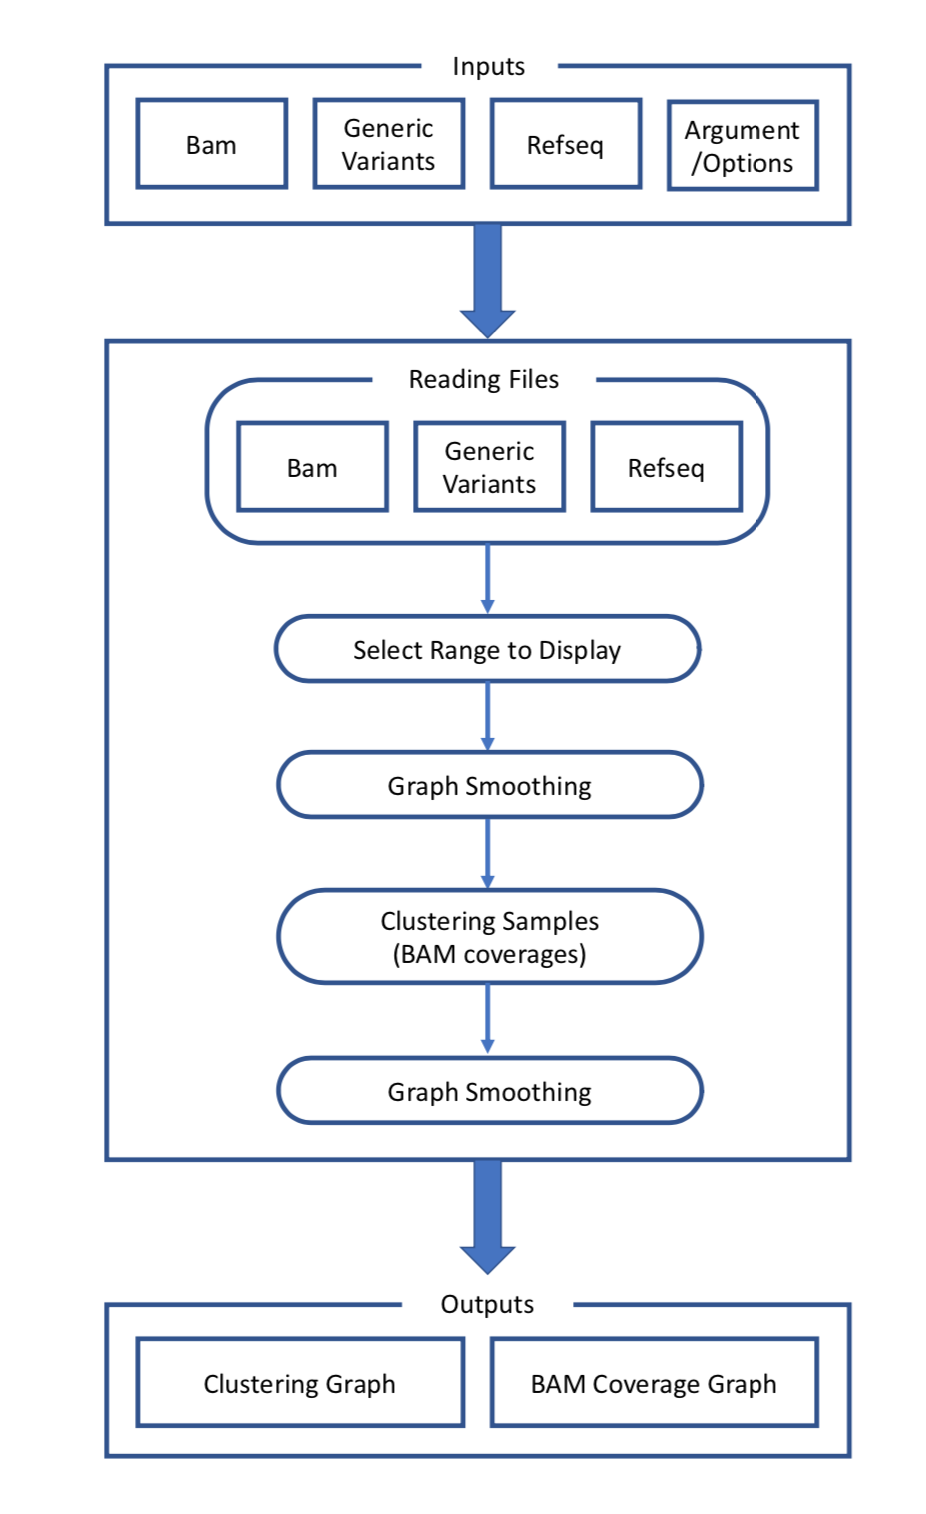
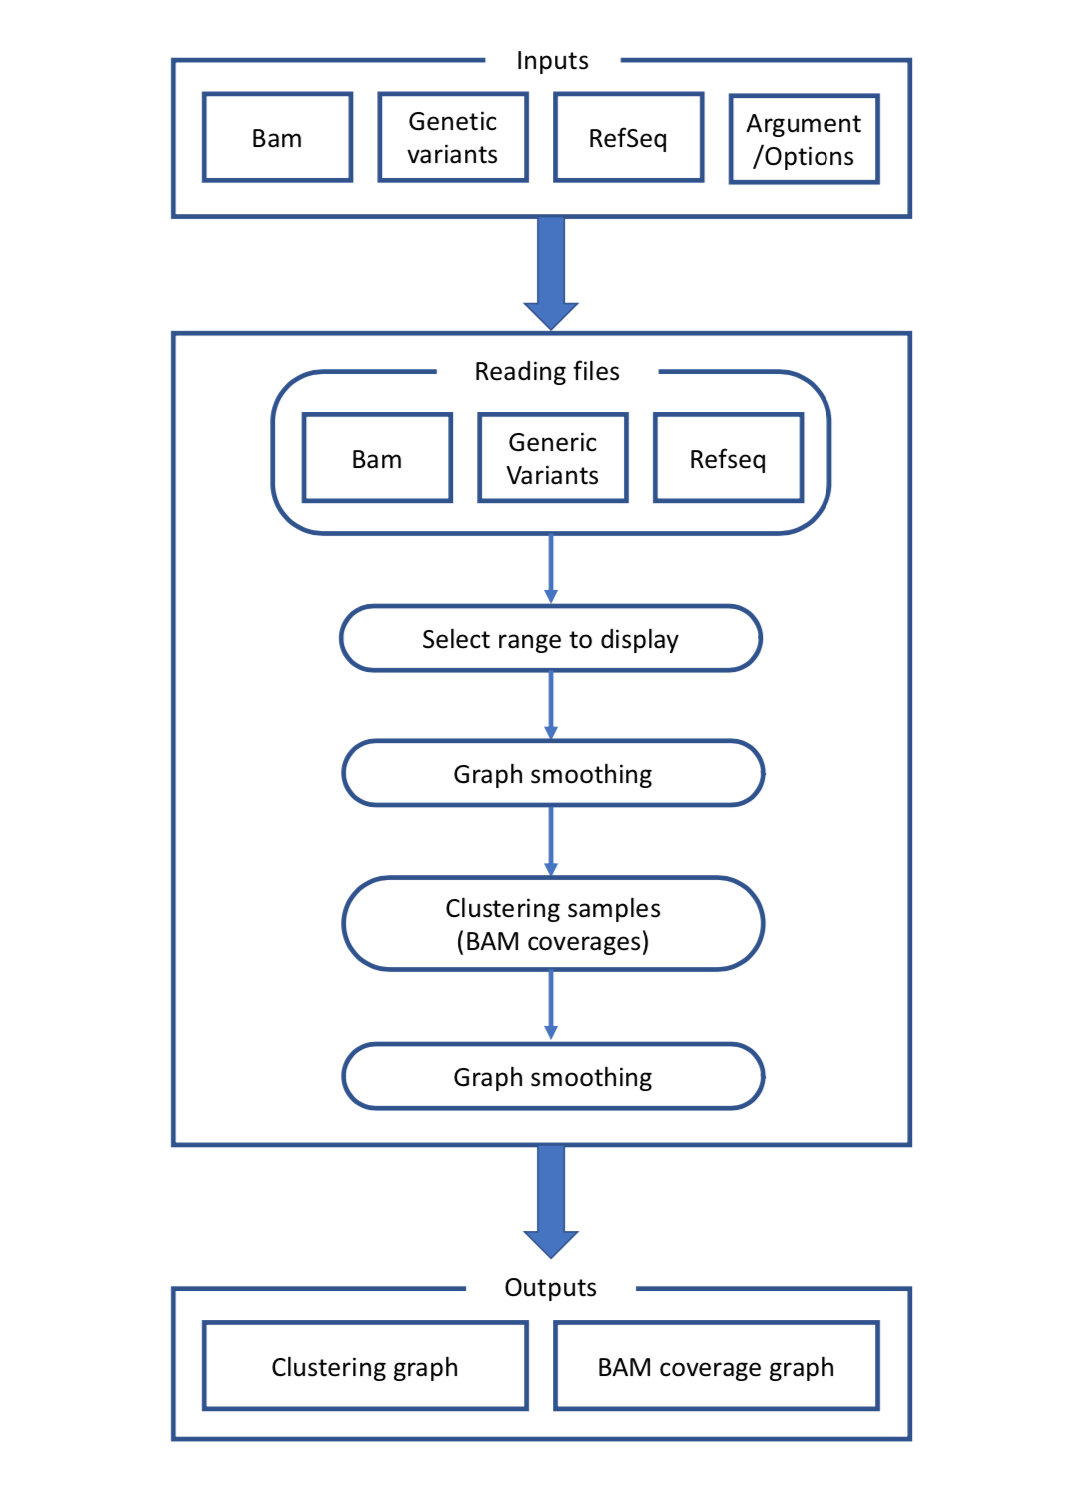
Read The Docs v0.0.3

Changed region(s): [[0.0907, 0.0308, 0.9374, 0.9853], [0.3024, 0.585, 0.3629, 0.6466]]

diff --git a/docs/input/optional.rst b/docs/input/optional.rst
@@ -46,7 +46,6 @@ draw_average_line
 .. figure:: ../img/draw_average_line.png
     :align: center
     :figwidth: 100%
-    :target: ../img/draw_average_line.png
 
     --draw_average_line 적용시 나타나는 average line(붉은색)
 
@@ -68,7 +67,6 @@ draw_span
 .. figure::  ../img/option_non_exon.png
     :align: center
     :figwidth: 100%
-    :target: ../img/option_non_exon.png
 
 .. code::
 
@@ -93,14 +91,12 @@ exclude_exon
 .. figure::  ../img/option_exon_e.png
     :align: center
     :figwidth: 100%
-    :target: ../img/option_exon_e.png
 
     원본
 
 .. figure::  ../img/option_excluded.png
     :align: center
     :figwidth: 100%
-    :target: ../img/option_excluded.png
 
     \\-\\-exclude_exon 28 을 적용한 결과
 
@@ -126,7 +122,6 @@ exon_sliced
 .. figure::  ../img/option_exon.png
     :align: center
     :figwidth: 100%
-    :target: ../img/option_exon.png
 
 .. code::
 
@@ -149,7 +144,6 @@ exon_space
 .. figure::  ../img/option_exon_space.png
     :align: center
     :figwidth: 100%
-    :target: ../img/option_exon_space.png
 
     엑손 사이의 간격을 30bp로 두어 출력한 모습
 
@@ -158,7 +152,7 @@ exon_space
    --exon_space <exon_space>
 
 exon_sliced_ 옵션에서 exon 앞뒤의 간격을 bp_ 단위로 설정하여 줍니다.
-int값을 받습니다.`
+int값을 받습니다.
 
 .. _exon_sliced : https://visbam.readthedocs.io/en/latest/input/optional.html#exon-sliced
 .. _bp : https://en.wikipedia.org/wiki/Base_pair
@@ -190,7 +184,6 @@ min_max
 .. figure:: ../img/min_max.png
     :align: center
     :figwidth: 100%
-    :target: ../img/min_max.png
 
     --min_max를 적용했을 떄 그래프
 
@@ -249,14 +242,12 @@ average
 .. figure::  ../img/smoothing_average_10.png
     :align: center
     :figwidth: 100%
-    :target: ../img/smoothing_average_10.png
 
     average 10
 
 .. figure::  ../img/smoothing_average_100.png
     :align: center
     :figwidth: 100%
-    :target: ../img/smoothing_average_100.png
 
     average 100
 
@@ -285,7 +276,6 @@ fill
 .. figure::  ../img/smoothing_average_100_fill.png
     :align: center
     :figwidth: 100%
-    :target: ../img/smoothing_average_100_fill.png
 
     average 100 fill
 
@@ -314,12 +304,13 @@ clustering
 
    --clustering
 
-주어진 샘플을 두 그룹으로 clustering 합니다.
+주어진 샘플을 두 그룹으로 clustering_ 합니다.
 
 .. note::
 
-    아래 옵션을 이용하려면 clustering_ 옵션이 활성화 되어있어야 합니다.
+    아래 옵션을 이용하려면 clustering 옵션이 활성화 되어있어야 합니다.
 
+.. _clustering: https://visbam.readthedocs.io/en/latest/process/clustering.html 
 
 clustering_mode 
 ~~~~~~~~~~~~~~~

diff --git a/docs/process/smoothing.rst b/docs/process/smoothing.rst
@@ -3,15 +3,16 @@ Smoothing the graph
 
 그래프를 더 간단히 볼 수 있도록 smoothing 하는 과정입니다.
 Smoothing은 두 가지 알고리즘을 선택하여 진행합니다.
-``average`` 와 ``loess`` 입니다.
+`\\-\\-smoothing`_ 옵션에서 ``average`` 와 ``loess`` 중
+하나를 선택할 수 있습니다..
 
 .. figure::  ../img/smoothing_original.png
     :align: center
     :figwidth: 100%
-    :target: ../img/smoothing_original.png
 
     원본 그래프
 
+.. _\\-\\-smoothing : https://visbam.readthedocs.io/en/latest/input/optional.html#smoothing
 
 Average
 -------
@@ -19,14 +20,12 @@ Average
 .. figure::  ../img/smoothing_average_10.png
     :align: center
     :figwidth: 100%
-    :target: ../img/smoothing_average_10.png
 
     Average가 10 일 때 그래프
 
 .. figure::  ../img/smoothing_average_100.png
     :align: center
     :figwidth: 100%
-    :target: ../img/smoothing_average_100.png
 
     Average가 100 일 때 그래프
 
@@ -36,7 +35,6 @@ Average_ 는 각 position 앞 뒤로 `\\-\\-average`_ 간격 만큼의 평균을
 .. figure::  ../img/smoothing_average_100_fill.png
     :align: center
     :figwidth: 100%
-    :target: ../img/smoothing_average_100_fill.png
 
     Average가 100 일 때 \\-\\-fill option을 켠 그래프
 
@@ -48,18 +46,17 @@ position의 경우에는 그 값이 0으로 처리됩니다.
 .. _\\-\\-average : https://visbam.readthedocs.io/en/latest/input/optional.html#average
 .. _\\-\\-fill : https://visbam.readthedocs.io/en/latest/input/optional.html#fill
 
-Loess
+LOESS
 ------
 
 .. figure::  ../img/smoothing_loess.png
     :align: center
     :figwidth: 100%
-    :target: ../img/smoothing_loess.png
 
-    Loess 그래프
+    LOESS 그래프
 
-Loess_ 는 skmisc의 loess라이브러리를 이용하여 smoothing하는 방식입니다.
-자세한 방식은 skmisc_ 를 참조하십시오.
+LOESS_ 는 scikit-misc의 loess라이브러리를 이용하여 smoothing하는 방식입니다.
+자세한 방식은 scikit-misc_ 를 참조하십시오.
 
-.. _Loess : https://en.wikipedia.org/wiki/Local_regression
-.. _skmisc: https://has2k1.github.io/scikit-misc/loess.html
+.. _LOESS : https://en.wikipedia.org/wiki/Local_regression
+.. _scikit-misc: https://has2k1.github.io/scikit-misc/loess.html

diff --git a/docs/output/graph.rst b/docs/output/graph.rst
@@ -6,7 +6,6 @@ Final graph
 .. figure:: ../img/combined_graph.png
     :align: center
     :figwidth: 100%
-    :target: ../img/combined_graph.png
 
 
 `\\-\\-combine_slices`_ 옵션이 켜져 있을 시 하나의 PDF로 출력됩니다.
@@ -15,7 +14,6 @@ Final graph
 .. figure:: ../img/sliced_graph.png
     :align: center
     :figwidth: 100%
-    :target: ../img/sliced_graph.png
 
 그렇지 않으면 각 slice별로 출력됩니다.
 각 슬라이스의 파일 명 뒤에는 slice 된 번호
@@ -33,7 +31,6 @@ Coverage
 .. figure:: ../img/coverage.png
     :align: center
     :figwidth: 100%
-    :target: ../img/coverage.png
 
 최종적으로 계산한 coverage를 표시하는 부분입니다.
 여기에 `Genetic variants`_ 도 함께 표시됩니다.
@@ -64,7 +61,6 @@ RefSeq
 .. figure:: ../img/refseq.png
     :align: center
     :figwidth: 100%
-    :target: ../img/refseq.png
 
 선택된 RefSeq들을 coverage 부분의 position에 따라 표시해 줍니다.
 tx, cds와 direction, exon을 그려줍니다.

diff --git a/docs/process/clustering.rst b/docs/process/clustering.rst
@@ -3,7 +3,10 @@ Clustering samples
 
 Sample을 두 그룹으로 Clustering 하는 process입니다.
 Clustering 알고리즘은 3가지가 있습니다.
-``silhouette``, ``nmf``, ``splice_site`` 입니다.
+`\\-\\-clustering`_ 옵션에서 ``silhouette``, ``nmf``, ``splice_site``
+중 하나를 선택하여 실행할 수 있습니다..
+
+.. _\\-\\-clustering : https://visbam.readthedocs.io/en/latest/input/optional.html#clustering
 
 Silhouette
 ----------
@@ -19,7 +22,6 @@ Clustering을 할 때, exon을 두 개 선택하게 됩니다.
 .. figure:: ../img/clustering_silhouette.png
     :align: center
     :figwidth: 100%
-    :target: ../img/clustering_silhouette.png
 
 
 
@@ -75,5 +77,7 @@ Splice site
 `Genetic variants`_ 데이터 중 effect의 이름이 ``splice_site`` 가
 있는 것들을 모아 줍니다.
 ``splice_site`` 가 있는 sample을 모두 선택하여 clustering 하여 줍니다.
+
+
 .. _`Genetic variants` : https://en.wikipedia.org/wiki/Genetic_variant
 

diff --git a/docs/input/positional.rst b/docs/input/positional.rst
@@ -96,13 +96,14 @@ variant_path
 
 `Genetic variants`_ 의 데이터가 있는 경로를 설정해줍니다.
 각 파일의 파일명의 시작은 Bam_ 파일의 파일명('.'앞까지)이어야 합니다.
-`Genetic variants`_ 는 `TSV(Tab-Seperated Values)`_ 형식의 txt 파일로
+`Genetic variants`_ 는 `TSV(Tab-Separated Values)`_ 형식의 txt 파일로
 열에 ``RefSeq``, ``Pos``, ``Effect`` 가 포함되어 있어야 합니다.
+출력 결과는 `Drawing the final graph`_ 문서에서 참고하실 수 있습니다.
 
 .. _`Genetic variants` : https://en.wikipedia.org/wiki/Genetic_variant
 .. _Bam : https://en.wikipedia.org/wiki/Binary_Alignment_Map
 .. _`TSV(Tab-Separated Values)` : https://en.wikipedia.org/wiki/Tab-separated_values
-
+.. _`Drawing the final graph` : https://visbam.readthedocs.io/en/latest/process/draw_graph.html#id1
 
 refseq
 ------

diff --git a/docs/output/clustering.rst b/docs/output/clustering.rst
@@ -11,7 +11,6 @@ CI/Tau/Score scatter plot
 .. figure:: ../img/ci_tau_score_plot.png
     :align: center
     :figwidth: 100%
-    :target: ../img/ci_tau_score_plot.png
 
 CI(Confidence Interval), Tau에 따른 score의 관계를 표시한 그래프 입니다.
 Scatter plot으로 출력되었고, x축은 Ci, y축은 Tau입니다.
@@ -36,7 +35,6 @@ Ratio/Score scatter plot
 .. figure:: ../img/ratio_score_plot.png
     :align: center
     :figwidth: 100%
-    :target: ../img/ratio_score_plot.png
 
 Clustering 된 것과 그렇지 않은 것 사이의 비율(ratio)를 x축으로 하고,
 score를 y축으로 하여 표시한 scatter plot 그래프 입니다.

diff --git a/docs/process/read_files.rst b/docs/process/read_files.rst
@@ -27,7 +27,7 @@ cache 파일이 존재하면 cache 파일을 불러옵니다.
 없으면 각 파일의 coverage를 Pysam_ 라이브러리를 이용하여 구해 줍니다.
 그리고 coverage를 caching하여 저장합니다.
 
-Cache file은 해당 코드가 있는 폴더에 ``cache/``
+Cache file은 현재 작업환경에서 ``cache/``
 디렉토리를 새로 만든 뒤 그 안에 파일들이 저장됩니다. 
 
 구해진 Normal bam file들의 평균을 최종 결과값으로 저장합니다.

diff --git a/docs/process/select_range.rst b/docs/process/select_range.rst
@@ -10,7 +10,7 @@ Exon-sliced
 -----------
 
 Exon으로 나눌 시, Exon 앞뒤 `\\-\\-exon_space`_ 값을 더한 범위가 선택됩니다.
-첫 exon과 끝 exon은 각각 앞, 뒤로 100bp씩 더 추가되어 선택됩니다.
+선택한 전체 RefSeq의 양끝에 100bp씩 더 추가되어 선택됩니다.
 
 .. _\\-\\-exon_space : https://visbam.readthedocs.io/en/latest/input/optional.html#exon-space
 
